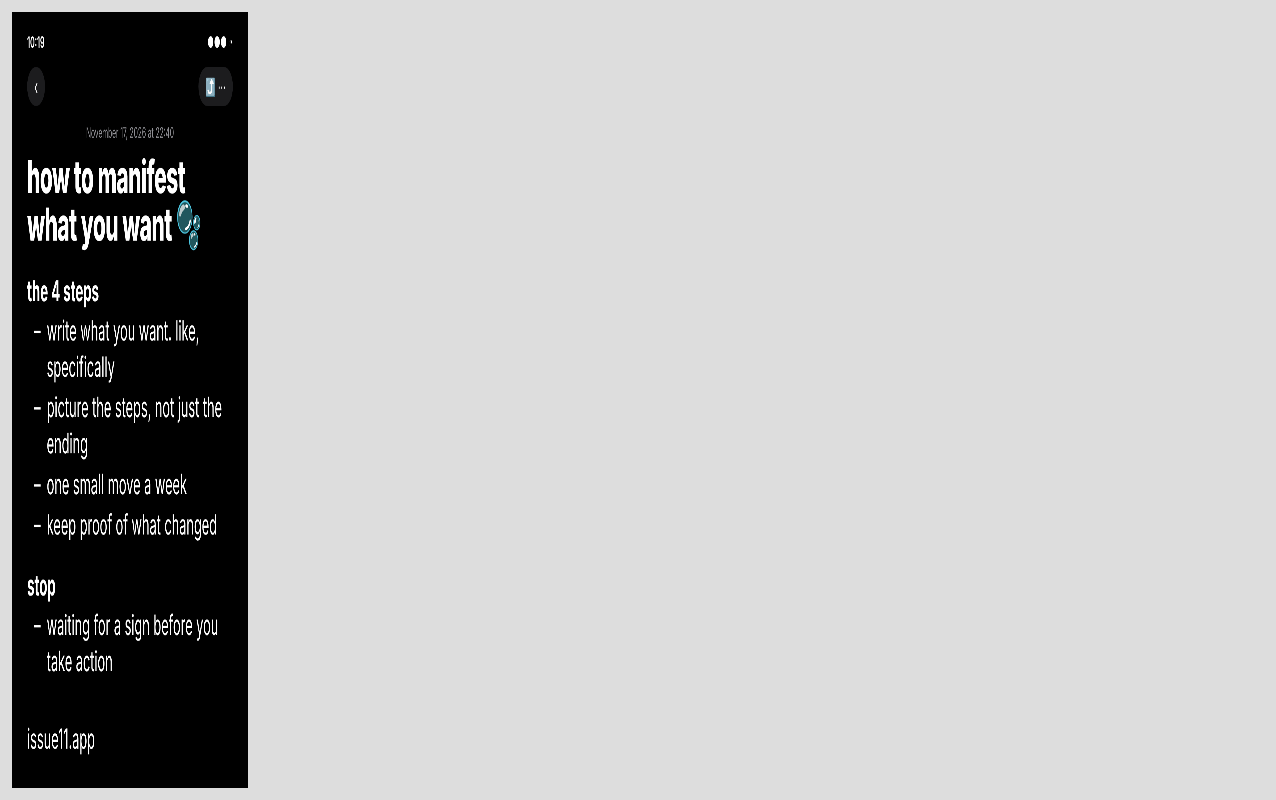
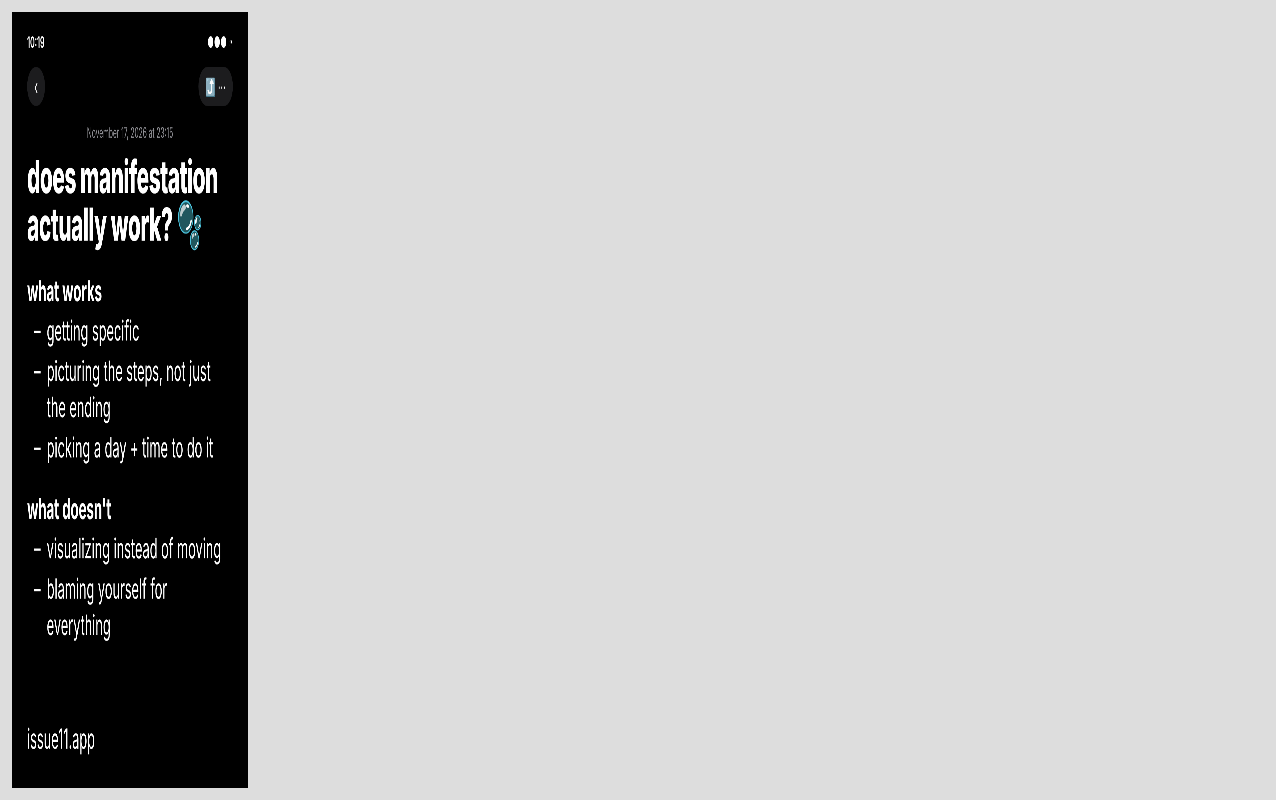
Hourly Pinterest: ArticlePinDMW (does-manifestation-work, phone notes), ready for Framer
Claude-Session: https://claude.ai/code/session_01YGtmQppBCBt9nypMHzxSp1

Changed region(s): [[0.0, 0.4062, 0.1834, 0.8438], [0.0, 0.1562, 0.1834, 0.3125], [0.0, 0.3438, 0.0917, 0.375]]

diff --git a/drafts/pinterest/article-pins/ArticlePinDMW.dc.html b/drafts/pinterest/article-pins/ArticlePinDMW.dc.html
@@ -1,0 +1,31 @@
+<!doctype html>
+<html lang="en">
+<head>
+<meta charset="utf-8">
+<title>Article pin · does-manifestation-work · phone notes</title>
+<script src="./support.js"></script>
+</head>
+<body>
+<x-dc>
+<helmet>
+<link href="https://fonts.googleapis.com/css2?family=Inter+Tight:wght@400;500;600;700&amp;display=swap" rel="stylesheet">
+<style>body{margin:0}</style>
+</helmet>
+<div style="width:1000px; height:1500px; position:relative; overflow:hidden; background:#000; font-family:'Inter Tight', 'Apple Color Emoji','Noto Color Emoji','Segoe UI Emoji', sans-serif; color:#0D0D0D">
+<div style="position:absolute; inset:0; padding:40px 64px; font-family:-apple-system, 'SF Pro Text', 'Inter Tight', system-ui, sans-serif, 'Apple Color Emoji','Noto Color Emoji','Segoe UI Emoji'; color:#fff">
+  <div style="display:flex; justify-content:space-between; font-size:30px; font-weight:600"><span>10:19</span><span>●●● ◔</span></div>
+  <div style="display:flex; justify-content:space-between; margin-top:30px"><span style="width:76px; height:76px; border-radius:50%; background:#1c1c1e; display:flex; align-items:center; justify-content:center; font-size:40px">‹</span><span style="height:76px; padding:0 30px; border-radius:40px; background:#1c1c1e; display:flex; align-items:center; font-size:34px">⤴ ⋯</span></div>
+  <p style="margin:34px 0 0; text-align:center; font-size:28px; color:#8e8e93">November 17, 2026 at 23:15</p>
+  <h1 style="margin:22px 0 0; font-size:88px; font-weight:800; letter-spacing:-0.02em; line-height:1.05">does manifestation actually work? 🫧</h1>
+  
+  <p style="margin:48px 0 6px; font-weight:700; font-size:56px">what works</p><div style="padding-left:30px; font-size:54px; line-height:1.3"><div style="display:flex; gap:26px; margin:8px 0"><span>–</span><span>getting specific</span></div><div style="display:flex; gap:26px; margin:8px 0"><span>–</span><span>picturing the steps, not just the ending</span></div><div style="display:flex; gap:26px; margin:8px 0"><span>–</span><span>picking a day + time to do it</span></div></div><p style="margin:48px 0 6px; font-weight:700; font-size:56px">what doesn't</p><div style="padding-left:30px; font-size:54px; line-height:1.3"><div style="display:flex; gap:26px; margin:8px 0"><span>–</span><span>visualizing instead of moving</span></div><div style="display:flex; gap:26px; margin:8px 0"><span>–</span><span>blaming yourself for everything</span></div></div>
+<p style="position:absolute; left:64px; bottom:60px; margin:0; font-size:54px; line-height:1.3">issue11.app</p></div>
+</div>
+</x-dc>
+<script type="text/x-dc" data-dc-script data-props='{"$preview":{"width":1000,"height":1500}}'>
+class Component extends DCLogic {
+  renderVals() { return {}; }
+}
+</script>
+</body>
+</html>

diff --git a/drafts/pinterest/article-pins/INDEX.md b/drafts/pinterest/article-pins/INDEX.md
@@ -27,6 +27,7 @@ Source boards: Claude Design Lead Magnets canvas (https://claude.ai/artifact/MZr
 | ArticlePinPAW | issue11.app/blog/positive-affirmations-for-women | png/ArticlePinPAW.png | Positive Affirmations for Women: 50 Short Daily Affirmations (Morning to Bedtime) | "Positive affirmations for women" over a crystal walk-in closet photo with the line "I am worthy of love, respect, and everything I desire", five topic tags and the 60-second routine | Pass 390 + 236 (Nov 17) | ready for Framer |
 | ArticlePinSCI | issue11.app/blog/self-care-ideas | png/ArticlePinSCI.png | Self Care Ideas: 5-Minute, Free + Life Self Care Ideas for Women | Dark iPhone Notes screenshot titled "self care ideas" with five of the article's ideas, rewritten in the live notes voice, under "5 minutes", "free" and "for your life" | Pass 390 + 236 (Nov 17) | ready for Framer |
 | ArticlePinHTM | issue11.app/blog/how-to-manifest | png/ArticlePinHTM.png | How to Manifest What You Want: 4 Steps That Actually Work | Dark iPhone Notes screenshot titled "how to manifest what you want" with the article's 4 steps in the live notes voice and a "stop" line | Pass 390 + 236 (Nov 17) | ready for Framer |
+| ArticlePinDMW | issue11.app/blog/does-manifestation-work | png/ArticlePinDMW.png | Does Manifestation Really Work? What Holds Up + What Backfires | Dark iPhone Notes screenshot titled "does manifestation actually work?" listing what works and what doesn't, from the article, in the live notes voice | Pass 390 + 236 (Nov 17) | ready for Framer |
 
 Keyword check for ArticlePinVBE: Pinterest autocomplete (Apify, Nov 16) suggests "vision board examples" with "inspiration", "aesthetic", "life", "career" and "manifestation" variants. Raw: `../2026-11-16-vision-board-examples-keywords.json`. No volume figure from Pinterest; Google US 11,000/mo per QUEUE.md.
 
@@ -58,7 +59,7 @@ Keyword check for ArticlePinVM: Pinterest autocomplete (Apify, Nov 16) suggests 
 
 Keyword check for ArticlePinPV: Pinterest autocomplete (Apify, Nov 16) suggests "pinterest vision board ideas", "pinterest vision board aesthetic", "pinterest vision board examples" and "pinterest vision board template". Raw: `../2026-11-16-pinterest-vision-board-keywords.json`. Cover lines are the article's 4 step headings (shortened). First article pin in the approved magazine-cover template. The photo is an AI-generated library image (AI label applies if ever posted as a pin).
 
-Next articles without a pin (STRATEGY.md order, then the rest of the sitemap): does-manifestation-work · law-of-assumption · scripting-manifestation · mirror-work · best-manifestation-apps · becoming-her.
+Next articles without a pin (STRATEGY.md order, then the rest of the sitemap): law-of-assumption · scripting-manifestation · mirror-work · best-manifestation-apps · becoming-her.
 
 ## Nov 17 publish note
 - All 18 images were added to their articles' Content, as the first block after the intro paragraph. NYVB2 sits before "How to Host a Vision Board Party". Published as Framer version 699f2d432.
@@ -73,3 +74,5 @@ Keyword check for ArticlePinPAW: Pinterest autocomplete (Apify, Nov 17) suggests
 Keyword check for ArticlePinSCI: Pinterest autocomplete (Apify, Nov 17) suggests "self-care ideas", "self-care ideas for women", "simple", "easy", "free" and "winter self care ideas". Raw: `../2026-11-17-self-care-ideas-keywords.json`. Made in the phone-notes format (Megan, Nov 17: "the phone notes format works"). The 5 ideas are copied word for word from the article. Text only, so no AI label is needed.
 
 Keyword check for ArticlePinHTM: Pinterest autocomplete (Apify, Nov 17): "how to manifest what you want" is the top suggestion (also money, love, a job, journal; skipped the specific-person ones per the copy rules). Raw: `../2026-11-17-how-to-manifest-keywords.json`. The 4 steps come from the article, rewritten in the notes voice (lesson Nov 17). The "stop" line is Megan's own words (from CT211).
+
+Keyword check for ArticlePinDMW: Pinterest autocomplete (Apify, Nov 17) suggests "does manifestation really work", "how does manifestation work" and "manifestation methods that actually work". Raw: `../2026-11-17-does-manifestation-work-keywords.json`. The items are taken from the article's "The Parts That Hold Up" and "Where Manifesting Can Backfire" sections, rewritten in the notes voice. No claims beyond the article's sourced ones.

diff --git a/drafts/pinterest/HOURLY-LOG.md b/drafts/pinterest/HOURLY-LOG.md
@@ -1,5 +1,6 @@
 # Pinterest agent: hourly log (newest first)
 
+- 2026-11-17 16:2x UTC · Job 1: made ArticlePinDMW (does-manifestation-work) in the phone-notes format, with "what works / what doesn't" from the article in the notes voice. Added to the canvas and INDEX.md as "ready for Framer". Visual QA at 390 + 236 passed after one fix: the last item ran into issue11.app, so I shortened the lines.
 - 2026-11-17 12:2x UTC · Job 1: made ArticlePinHTM (how-to-manifest) in the phone-notes format, with the article's 4 steps in the live notes voice plus Megan's "waiting for a sign before you take action" line. Added to the canvas and INDEX.md as "ready for Framer". Visual QA at 390 + 236 passed on the first try.
 - 2026-11-17 08:2x UTC · Job 1: made ArticlePinSCI (self-care-ideas) in the phone-notes format that is getting views, with 5 ideas copied from the article and issue11.app at the bottom. Added to the canvas and INDEX.md as "ready for Framer". Visual QA at 390 + 236 passed after one fix: 8 ideas made the text too small on a phone, so I cut it to 5.
 - 2026-11-17 04:2x UTC · Job 1: made ArticlePinPAW (positive-affirmations-for-women), a title + photo with Megan's BANK line "I am worthy of love, respect, and everything I desire", 5 topic tags and the article's 60-second routine. Added to the canvas and INDEX.md as "ready for Framer". Visual QA at 390 + 236 passed after one fix: the 3-line title ran into the subtitle, so I moved everything below it down.
